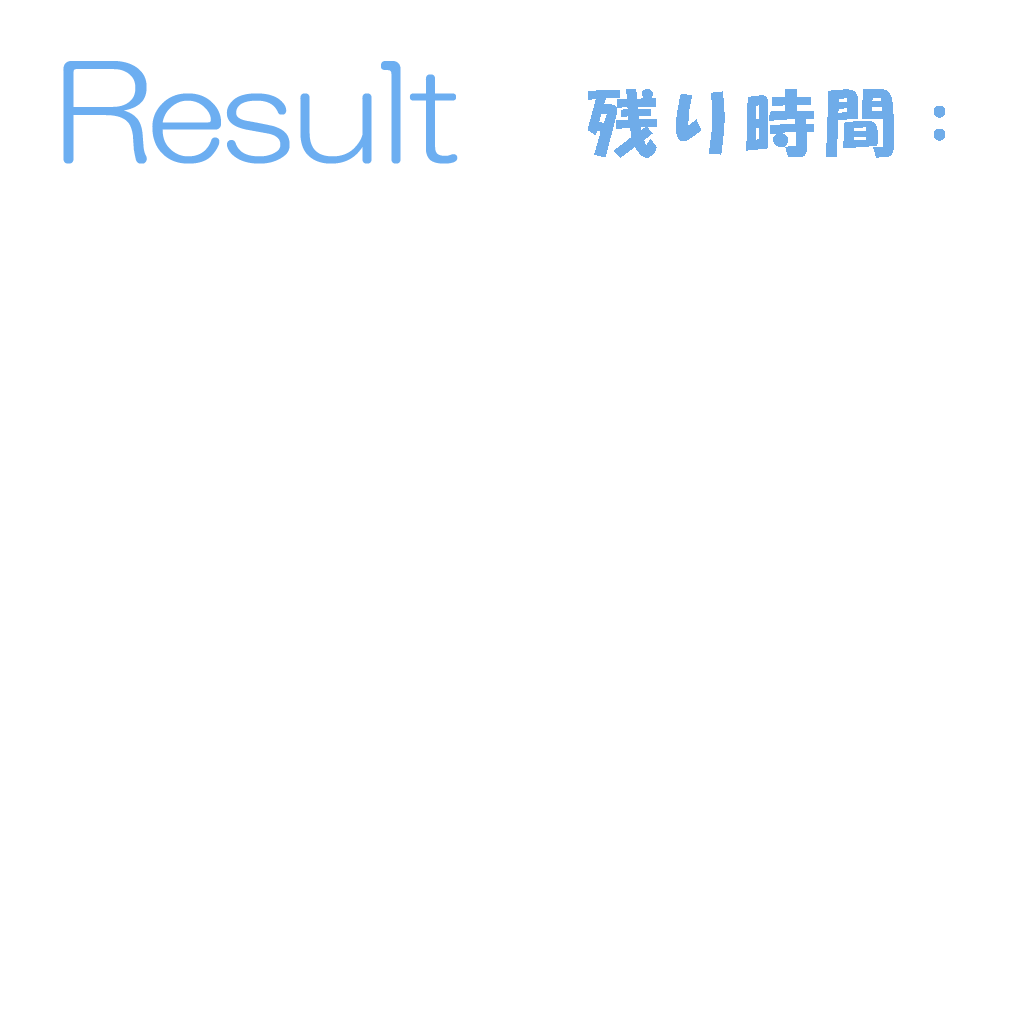
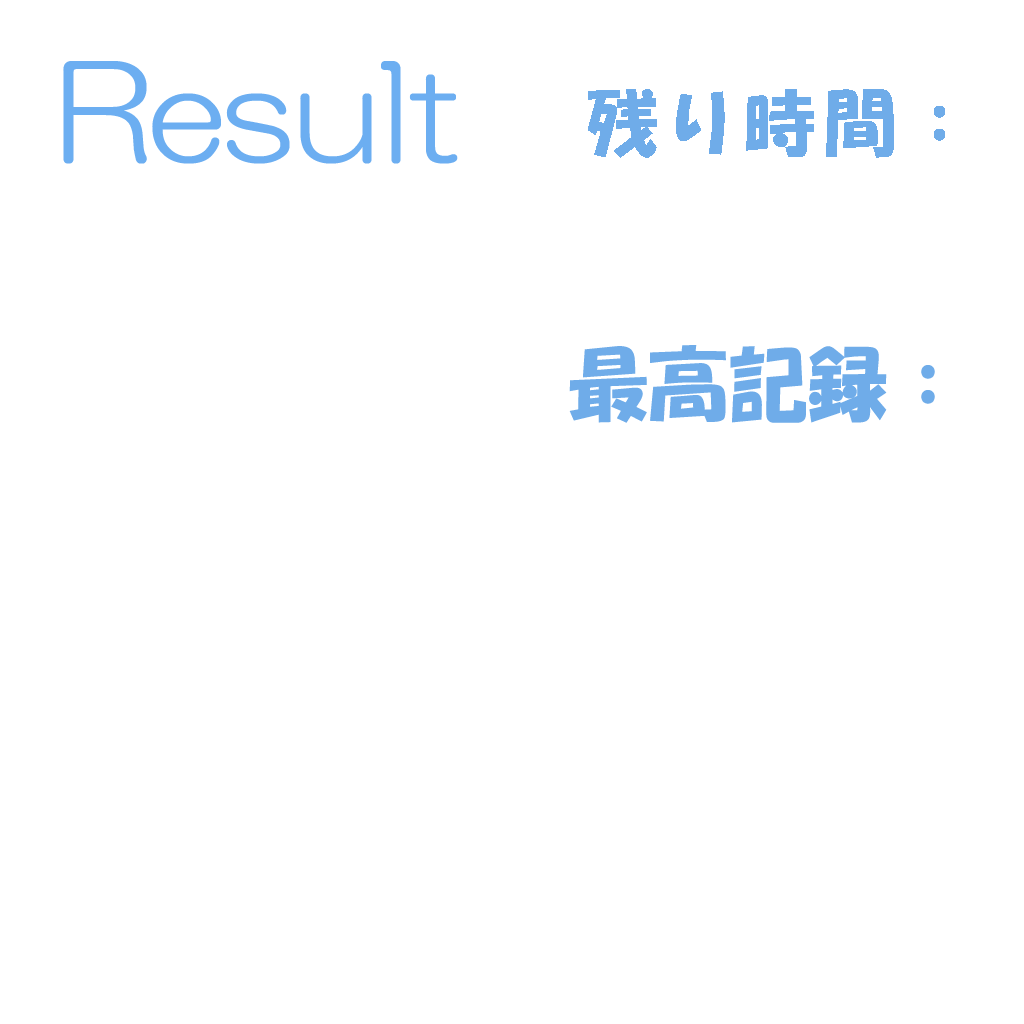
besttime表示

Changed region(s): [[0.5625, 0.3125, 0.875, 0.4375]]

diff --git a/Solution/App/SceneResult.h b/Solution/App/SceneResult.h
@@ -7,8 +7,13 @@ public:
 private:
 	NEXT update( );
 	void draw( ) const;
-	void drawTimer( ) const;
+	int drawTime( int x, int y, int time ) const;
+	void drawThisTime( ) const;
+	void drawBestTime( ) const;
+	void loadBestTime( );
+	void saveBestTime( );
 private:
-	int _time;
+	int _this_time;
+	int _best_time;
 };
 
